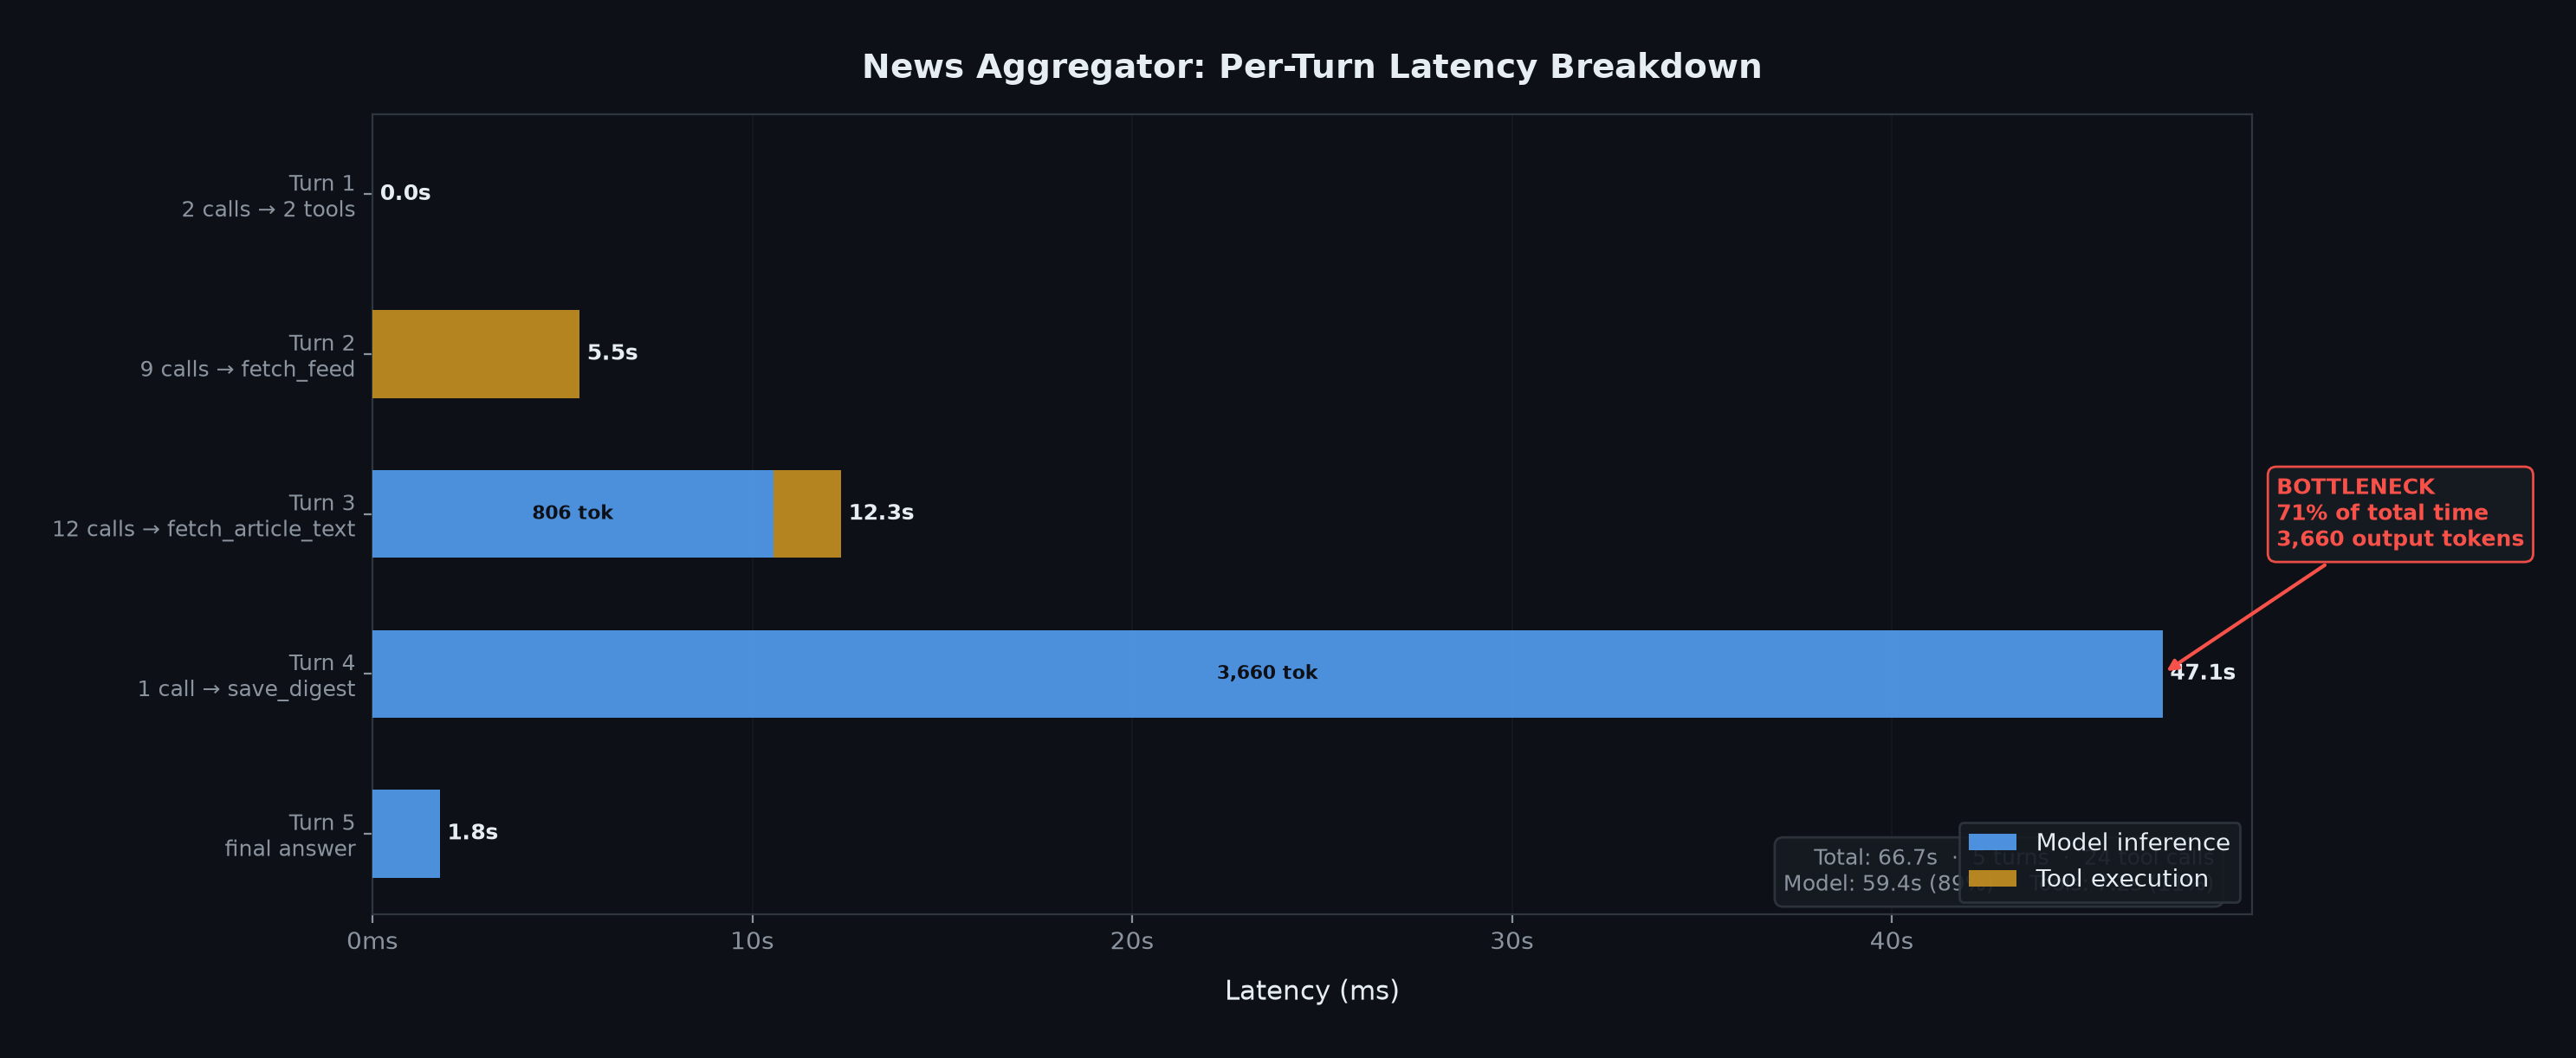
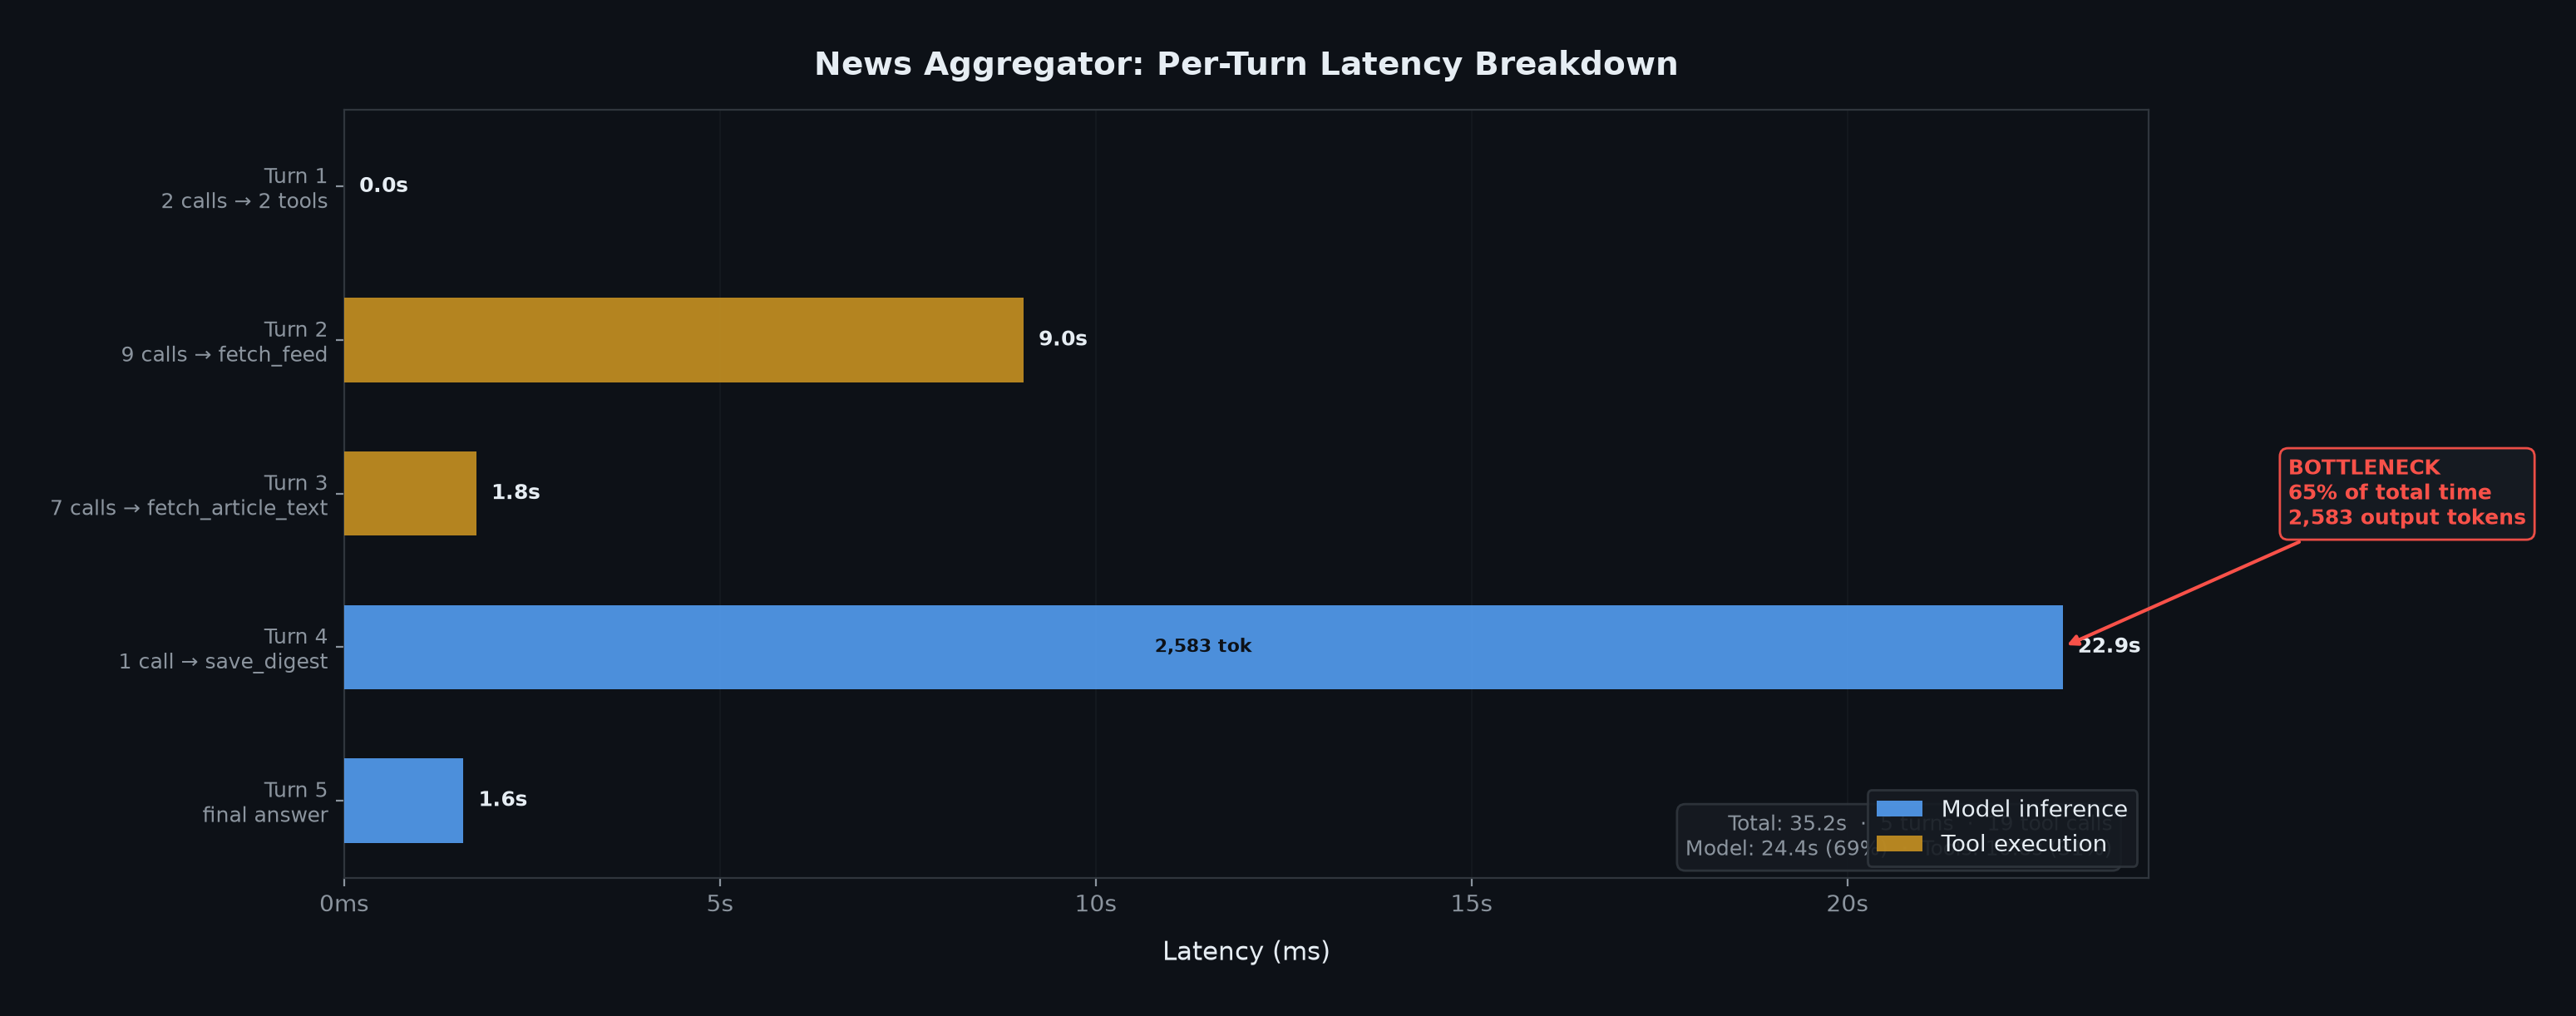
Live July re-run: real data across all three demos + robustness fix
- agent.py: strip control chars from tool results before they re-enter
  the message history (NVIDIA endpoint 400s on raw control chars from
  scraped web content) — same class of fix as the message-field strip
- Re-ran all three demos on the live NVIDIA API (Mistral Small 4 / Large 3):
  * 01 tool-calling: real 3-turn trace
  * 02 hybrid router: real 14-task run (71% fast / 29% frontier)
  * 03 news aggregator: fresh trace (5 turns, 19 calls, 62.7K in / 3.1K out,
    Turn 4 synthesis = 65% of runtime) + current 2026-07-05 digest
- routing viz: annotate only well-separated extremes (real data clusters),
  relocate stats box; trace viz: cap model-card text to fit
- Regenerate all data figures from the real runs; swap stale April digest
  for the July one

diff --git a/viz/routing.py b/viz/routing.py
@@ -104,19 +104,37 @@ def draw(ax, data: list[dict], threshold: float = THRESHOLD):
     ax.axvspan(0, threshold, alpha=0.04, color=ORANGE, zorder=0)
     ax.axvspan(threshold, 1, alpha=0.04, color=BLUE, zorder=0)
 
-    # Task labels (annotate a few interesting ones)
-    for d in data:
-        if d["complexity"] in (0.10, 0.92, 0.50):  # extremes + near boundary
-            short = d["task"][:35] + "..." if len(d["task"]) > 35 else d["task"]
-            color = ORANGE if d["backend"] == "fast" else BLUE
-            offset = (-150, -22) if d["complexity"] > 0.8 else (15, 10)
-            ax.annotate(
-                short,
-                xy=(d["complexity"], d["latency_ms"]),
-                xytext=offset, textcoords="offset points",
-                fontsize=7, color=TEXT_DIM, alpha=0.8,
-                arrowprops=dict(arrowstyle="-", color=TEXT_DIM, lw=0.5, alpha=0.4),
-            )
+    # Task labels — annotate only well-separated extremes so real, clustered
+    # data doesn't pile labels on top of each other. Pick the lowest-complexity
+    # task, the highest-latency task, and the fastest-tier outlier; skip any
+    # that would collide with one already placed.
+    def _short(d):
+        return d["task"][:32] + "..." if len(d["task"]) > 32 else d["task"]
+
+    candidates = []
+    if data:
+        candidates.append(min(data, key=lambda d: d["complexity"]))      # simplest
+        candidates.append(max(data, key=lambda d: d["latency_ms"]))      # slowest
+        fast_sorted = sorted(fast, key=lambda d: d["latency_ms"], reverse=True)
+        if fast_sorted:
+            candidates.append(fast_sorted[0])                            # fast-tier outlier
+
+    placed = []
+    for d in candidates:
+        key = (round(d["complexity"], 2), round(d["latency_ms"], -2))
+        if key in placed:
+            continue
+        placed.append(key)
+        high = d["complexity"] > 0.55
+        offset = (-160, 12) if high else (14, 12)
+        ax.annotate(
+            _short(d),
+            xy=(d["complexity"], d["latency_ms"]),
+            xytext=offset, textcoords="offset points",
+            fontsize=7.5, color=TEXT_DIM, alpha=0.9, va="bottom",
+            ha="right" if high else "left",
+            arrowprops=dict(arrowstyle="-", color=TEXT_DIM, lw=0.5, alpha=0.4),
+        )
 
     # Styling
     ax.set_xlabel("Complexity Score  (classified by Mistral Small 4)", fontsize=11,
@@ -137,9 +155,9 @@ def draw(ax, data: list[dict], threshold: float = THRESHOLD):
         f"Fast tier: {fast_pct:.0f}% of tasks  ·  avg {avg_fast_ms:.0f}ms\n"
         f"Frontier: {100-fast_pct:.0f}% of tasks  ·  avg {avg_frontier_ms:.0f}ms"
     )
-    ax.text(0.98, 0.98, stats_text, transform=ax.transAxes,
-            fontsize=8.5, color=TEXT_DIM, va="top", ha="right",
-            bbox=dict(fc=CARD_BG, ec=BORDER, boxstyle="round,pad=0.4", alpha=0.9))
+    ax.text(0.03, 0.60, stats_text, transform=ax.transAxes,
+            fontsize=9, color=TEXT, va="top", ha="left",
+            bbox=dict(fc=CARD_BG, ec=BORDER, boxstyle="round,pad=0.5", alpha=0.95))
 
 
 def render(out_dir: Path, data: list[dict] | None = None,

diff --git a/projects/01_tool_calling/agent.py b/projects/01_tool_calling/agent.py
@@ -29,9 +29,23 @@ Usage:
 """
 
 import json
+import re
 import time
 from dataclasses import dataclass, field
 from openai import OpenAI
+
+
+# NVIDIA's endpoint rejects raw control characters in the request body
+# ("Invalid control character at..."). Tool results that scrape web content
+# routinely carry them (NULs, form feeds, stray escapes). Strip everything
+# below 0x20 except tab / newline / carriage return before it re-enters the
+# message history. Same class of fix as stripping unsupported message fields.
+_CONTROL_CHARS = re.compile(r"[\x00-\x08\x0b\x0c\x0e-\x1f\x7f]")
+
+
+def _strip_control(s):
+    """Remove control characters that break strict JSON parsing downstream."""
+    return _CONTROL_CHARS.sub("", s) if isinstance(s, str) else s
 
 
 @dataclass
@@ -187,6 +201,8 @@ class Agent:
             dumped = msg.model_dump()
             for key in ("audio", "function_call", "refusal", "annotations", "reasoning_content"):
                 dumped.pop(key, None)
+            if isinstance(dumped.get("content"), str):
+                dumped["content"] = _strip_control(dumped["content"])
             messages.append(dumped)
 
             # ── Check for tool calls ──
@@ -229,7 +245,7 @@ class Agent:
                 messages.append({
                     "role": "tool",
                     "tool_call_id": tc.id,
-                    "content": tool_result,
+                    "content": _strip_control(tool_result),
                 })
 
             result.steps.append(step)

diff --git a/viz/trace.py b/viz/trace.py
@@ -101,9 +101,12 @@ def draw(ax, trace: list[dict]):
         etype = event["type"]
 
         if etype == "model":
-            # Blue card — model reasoning
+            # Blue card — model reasoning (cap to ~3 lines so it fits the card)
             color = BLUE
-            content = _wrap(event["content"], 50)
+            text = event["content"]
+            if len(text) > 150:
+                text = text[:147].rstrip() + "..."
+            content = _wrap(text, 50)
             stats = f'{event["tokens"]} tok · {event["latency_ms"]:.0f}ms'
             icon = "LLM"
         elif etype == "tool_call":

diff --git a/output/ai_weekly_digest_2026-07-05.md b/output/ai_weekly_digest_2026-07-05.md
@@ -1,0 +1,77 @@
+## AI Week in Review: July 1, 2026
+*Digest date range: Jun 24 – Jul 1, 2026*
+
+---
+
+### **Announcements: What Changed**
+
+1. **OpenAI and Broadcom unveil Jalapeño, an LLM-optimized inference chip**
+   *Jun 24, 2026*
+   OpenAI and Broadcom introduced **Jalapeño**, a custom AI accelerator designed from the ground up for LLM inference. Early tests show significant performance-per-watt gains over state-of-the-art, with deployment slated for gigawatt-scale data centers in 2026. This deepens OpenAI’s full-stack control across models, systems, and silicon.
+   [OpenAI][1]
+
+2. **HP Inc. launches Frontier strategic partnership with OpenAI**
+   *Jun 28, 2026*
+   HP and OpenAI expanded their collaboration to embed AI across customer experiences, software development, and enterprise operations, marking one of OpenAI’s largest enterprise deployments to date.
+   [OpenAI][1]
+
+3. **Google DeepMind and A24 announce first-of-its-kind research partnership**
+   *Jul 3, 2026*
+   Google DeepMind and A24 are partnering to explore AI’s creative and narrative applications in entertainment, combining research expertise with cinematic storytelling.
+   [DeepMind][2]
+
+4. **Hugging Face and Cerebras bring Gemma 4 to real-time voice AI**
+   *Jul 1, 2026*
+   The integration enables 212-realtime voice interactions over WebSocket, delivering speech-to-speech inference using Gemma 4 for conversational AI.
+   [Hugging Face][3]
+
+5. **NVIDIA unlocks AI compute at scale with new cloud partnership model**
+   *Jul 1, 2026*
+   NVIDIA introduced a revenue-sharing model to accelerate deployment of large-scale AI factories, enabling rapid access to GB300-based infrastructure for AI-native startups and enterprises.
+   [NVIDIA][4]
+
+6. **Google DeepMind introduces computer use in Gemini 3.5 Flash**
+   *Jun 24, 2026*
+   Gemini 3.5 Flash now supports computer use, extending multimodal understanding for workflow automation and desktop-integrated AI applications.
+   [DeepMind][2]
+
+7. **Anthropic’s Claude Science integrated with NVIDIA BioNeMo for life sciences**
+   *Jun 30, 2026*
+   NVIDIA’s BioNeMo Agent Toolkit now powers **Claude Science**, enabling researchers to run accelerated AI workflows for drug discovery and computational biology.
+   [NVIDIA][4]
+
+
+---
+
+
+### **Insight & Analysis: What It Means**
+
+8. **LLMs are stuck in a groupthink groove—can innovation break through?**
+   *Jul 1, 2026*
+   A new startup, **Springboards**, argues that today’s LLMs converge on predictable outputs due to similar training regimes and data. Their model, *Flint*, is engineered to return high-variance responses on creative and open-ended prompts—challenging the “average answer” phenomenon noted across major chatbots.
+   [MIT Technology Review][5]
+
+9. **AMIE study in *Nature*: Can AI match doctors in disease management?**
+   *Jun 16, 2026*
+   Google’s **AMIE** research system matched primary care physicians in long-term disease management and outperformed them in plan preciseness and guideline alignment. The blinded study signals a shift from one-off diagnostics to multi-visit, guideline-driven care coordination—a potential inflection point for AI in healthcare workflows.
+   [Google DeepMind][2]
+
+10. **Achieving operational excellence with AI**
+    *Jul 2, 2026*
+    MIT Technology Review Insights, in partnership with Teleperformance, argues that companies with mature process frameworks (Lean Six Sigma, BPM) are best positioned to leverage AI. Process discipline turns AI into measurable value; otherwise, tools may under-deliver. The \$113B AI-driven process optimization market could reshape enterprise operations over the next decade.
+    [MIT Technology Review Insights][6]
+
+11. **Operator to “agentor”: Where generative AI is going at NVIDIA**
+    *Jun 23, 2026*
+    Telecommunications operators are moving from task automation to 24/7 AI agents for network and customer operations—signaling a broader pivot from reactive to autonomous infrastructure management across industries.
+    [NVIDIA][4]
+
+---
+
+
+[1]: https://openai.com/index/openai-broadcom-jalapeno-inference-chip "OpenAI"
+[2]: https://deepmind.google/blog/google-deepmind-and-a24-announce-first-of-its-kind-research-partnership/ "DeepMind"
+[3]: https://huggingface.co/blog/cerebras-gemma4-voice-ai "Hugging Face"
+[4]: https://blogs.nvidia.com/blog/nvidia-unlocks-ai-compute-at-scale-capital-partners-to-power-ai-infrastructure-buildout/ "NVIDIA"
+[5]: https://www.technologyreview.com/2026/07/01/1140003/llms-are-stuck-in-a-groupthink-rut-this-startup-is-trying-to-get-them-out/ "MIT Technology Review"
+[6]: https://www.technologyreview.com/2026/07/02/1140045/achieving-operational-excellence-with-ai/ "MIT Technology Review Insights"